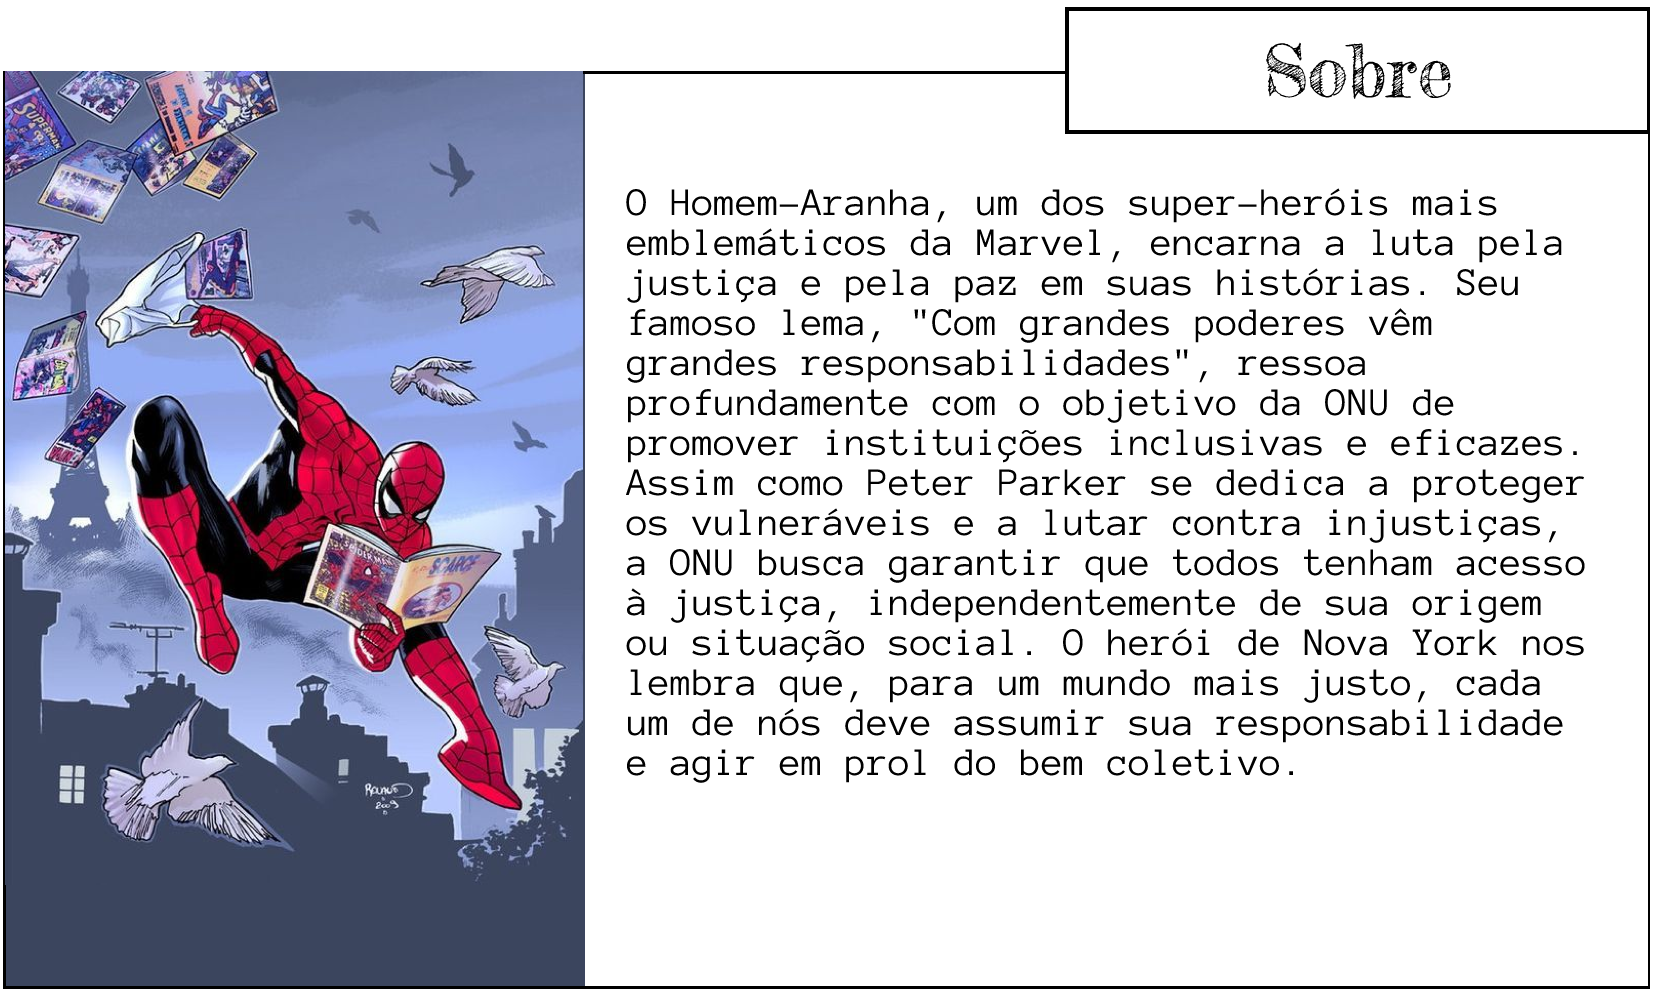
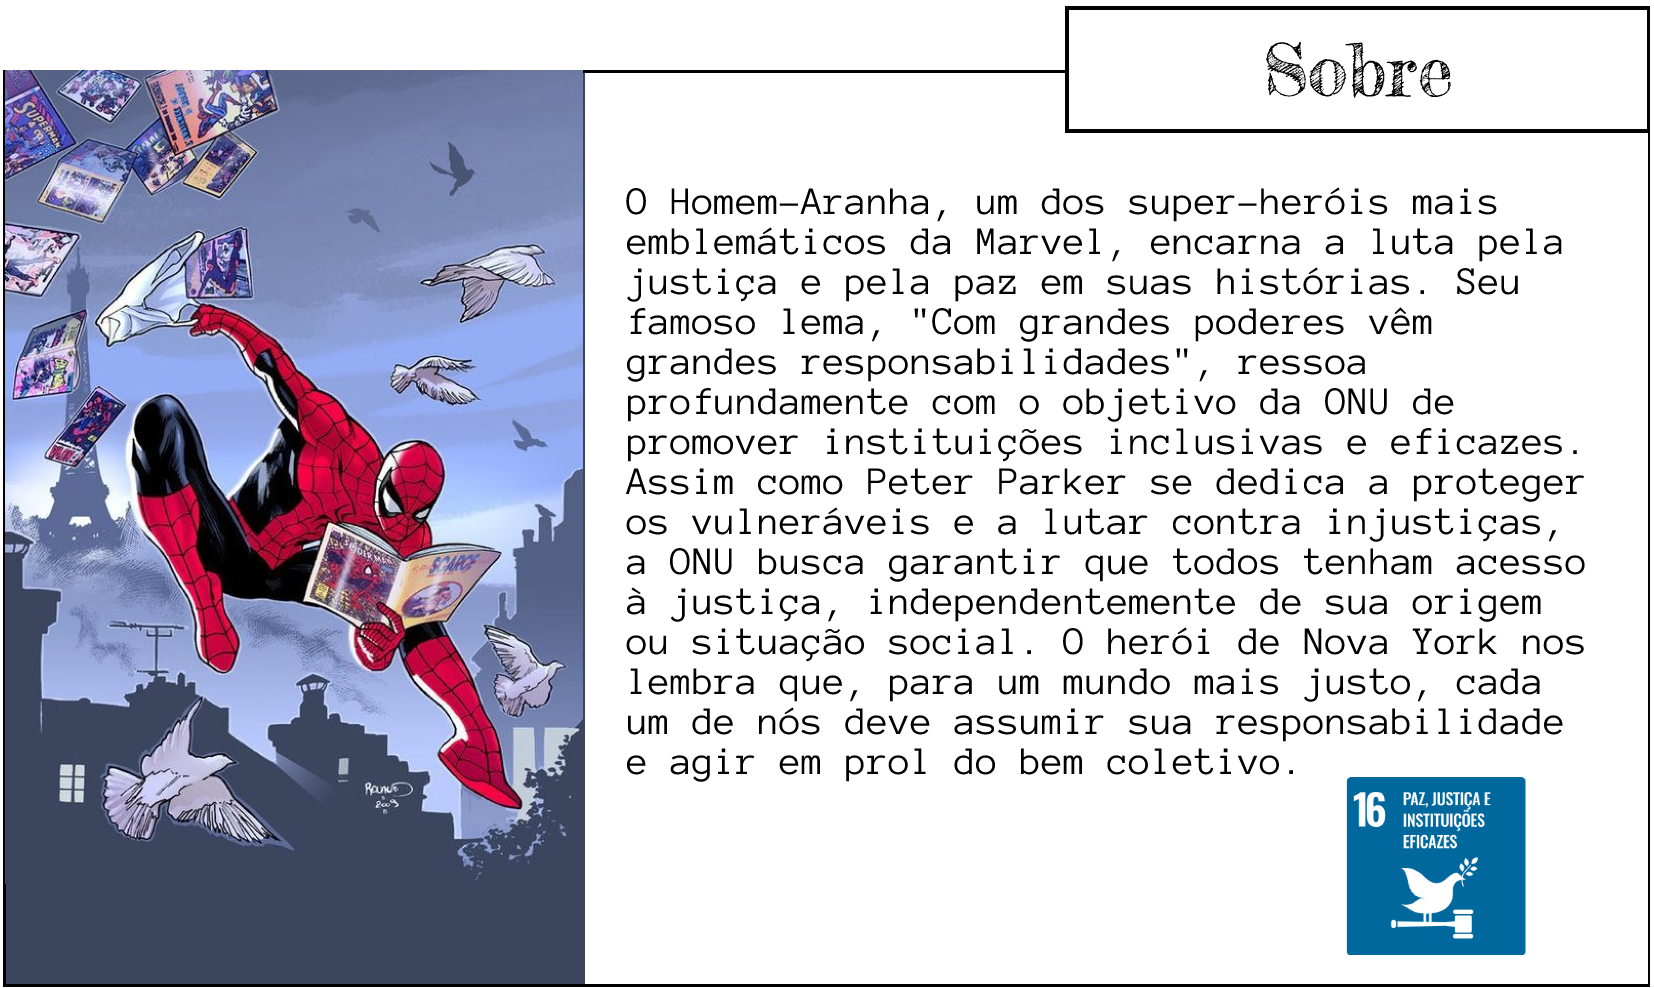
Slider de Sobre finalizado

diff --git a/PUBLIC/CSS/style.css b/PUBLIC/CSS/style.css
@@ -136,11 +136,51 @@ li .img_cad {
     grid-area: section_s;
     /* background-color: blue; */
     height: 100%;
+    padding: 2rem;
 }
 
-.sobre img {
-    height: 100%;
-    width: 75%;
+.slider-wrapper {
+    position: relative;
+    width: 70vw;
+    margin: 0 auto;
+}
+
+.slider {
+    display: flex;
+    aspect-ratio: 17/10;
+    overflow-x: auto;
+    scroll-snap-type: x mandatory;
+    scroll-behavior: smooth;
+    overflow: hidden;
+}
+
+.slider img {
+    flex: 1 0 100%;
+    scroll-snap-align: start;
+    object-fit: cover;
+}
+
+.slider-nav {
+    display: flex;
+    column-gap: 1rem;
+    position: absolute;
+    bottom: 1.25rem;
+    left: 50%;
+    transform: translateX(-50%);
+    z-index: 1;
+}
+
+.slider-nav a {
+    width: 1rem;
+    height: 1rem;
+    border-radius: 50%;
+    background-color: #c3c0c0;
+    opacity: 0.5;
+    transition: opacity ease 250ms;
+}
+
+.slider-nav a:hover {
+    opacity: 1;
 }
 
 .contato {

diff --git a/PUBLIC/HTML/index.html b/PUBLIC/HTML/index.html
@@ -37,7 +37,16 @@
             <div class="div_portal"><a href="/PUBLIC/HTML/arquivos.html"><img src="../Assets/portal_arquivos.png" alt="portal de arquivos"></a></div>
         </section>
         <section class="sobre" id="sobre">
-            <img src="../Assets/sobre.png" alt="seção sobre">
+            <div class="slider-wrapper">
+                <div class="slider">
+                    <img id="slide_1" src="../Assets/sobre.png" alt="seção sobre">
+                    <img id="slide_2" src="../Assets/sobre_mim.png" alt="seção sobre mim">
+                </div>
+                <div class="slider-nav">
+                    <a href="#slide_1"></a>
+                    <a href="#slide_2"></a>
+                </div>
+            </div>
         </section>
         <section class="contato" id="contato">
             <div class="box_contato">
